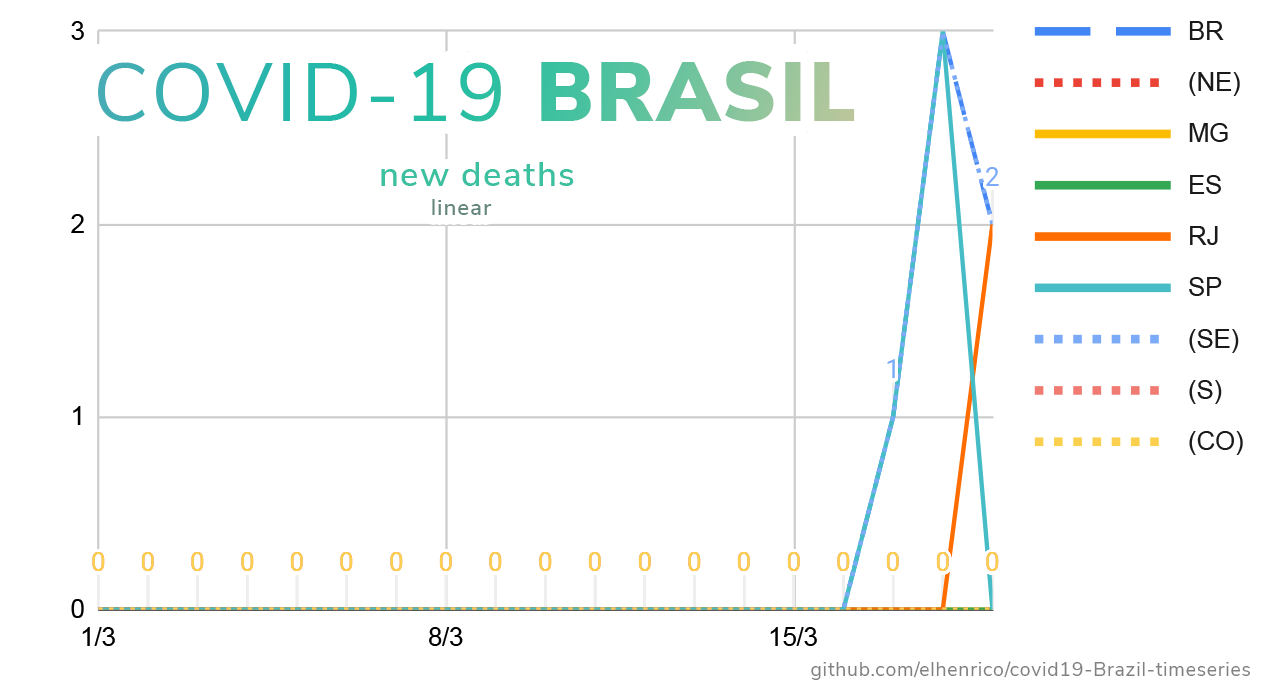
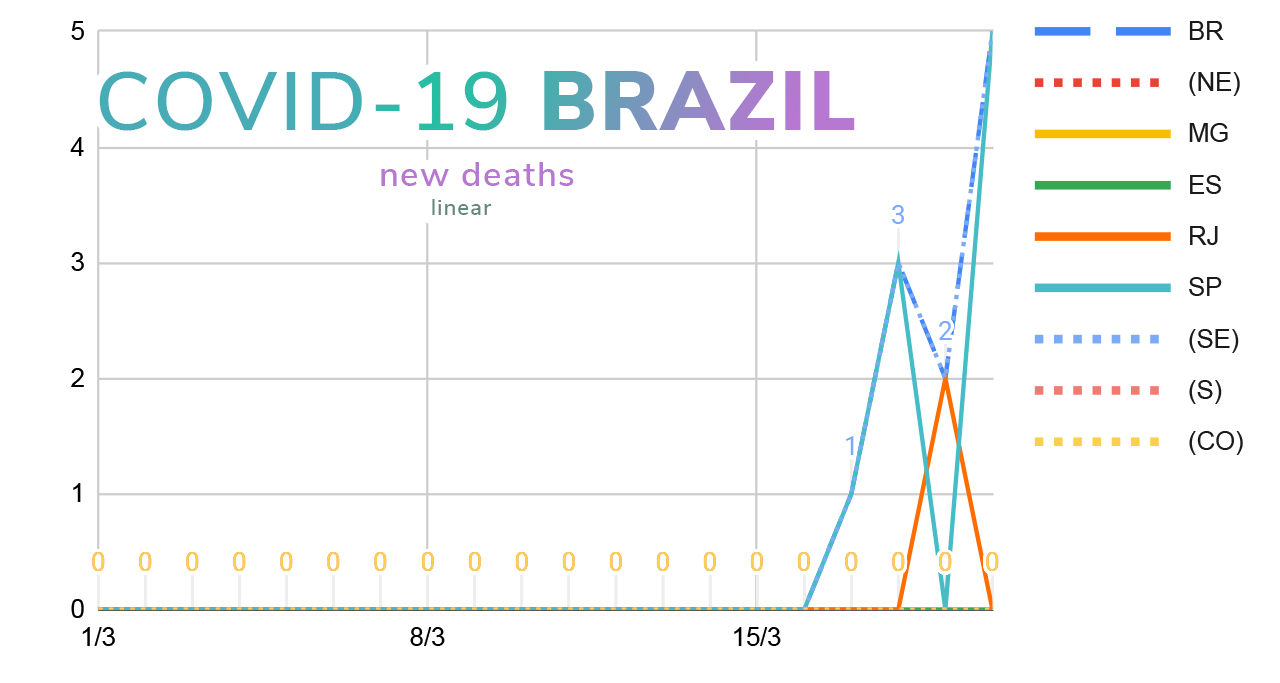
chore: Update data and charts

diff --git a/README.md b/README.md
@@ -1,6 +1,6 @@
 # COVID-19 Brazil - time series data
 
-<kbd>Latest: 19/03/2020 20:00 (Brasilia Standard Time)</kbd>
+<kbd>Latest: 20/03/2020 (Brasilia Standard Time)</kbd>
 
 ### Confirmed Cases (linear)
 ![Confirmed Linear Chart](/docs/confirmed-linear.png)
